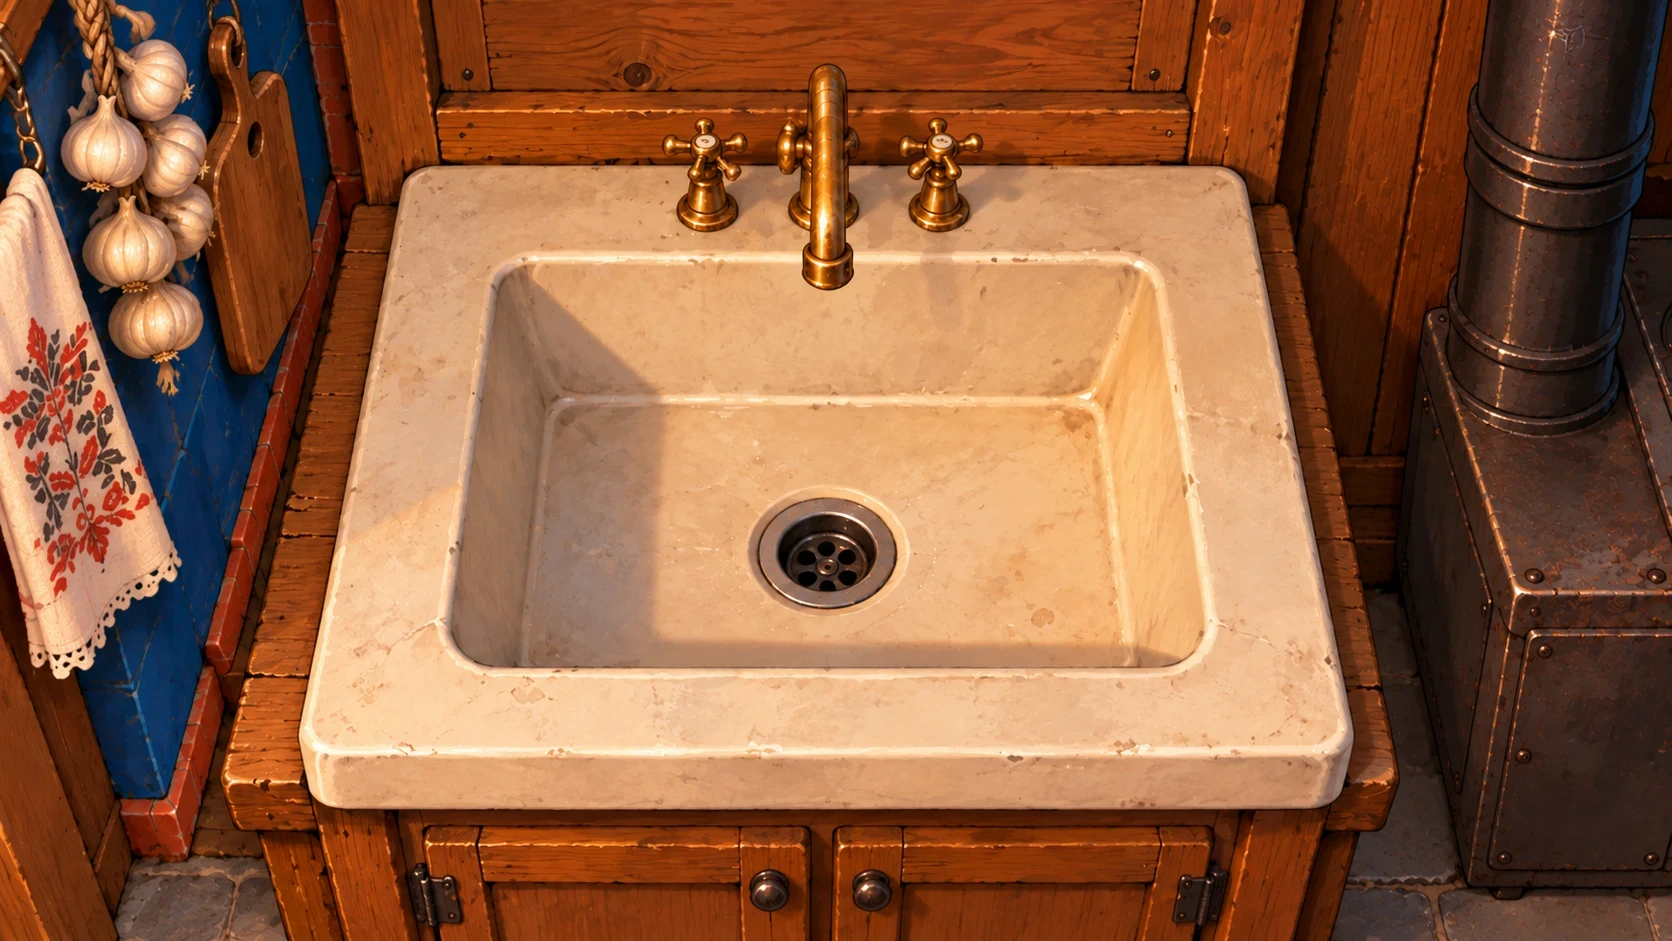
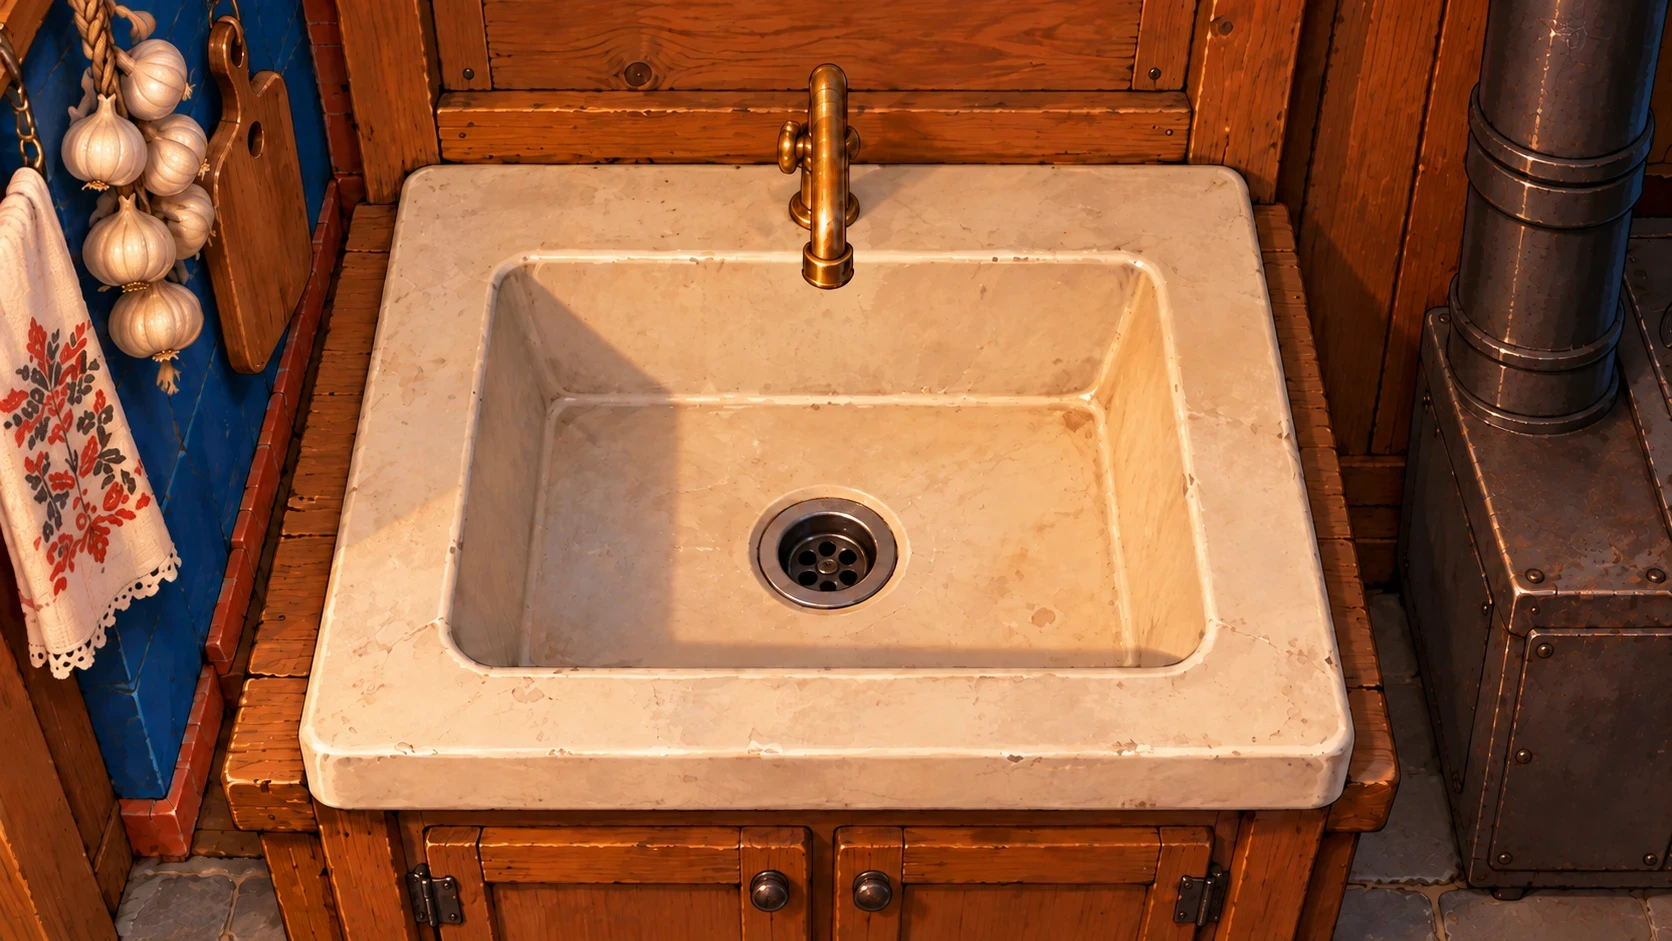
Slika sudopere bez ventila; ventili se crtaju kao posebni delovi
Claude-Session: https://claude.ai/code/session_01GMM3Rnq6i1o8tZEuJzXhvg

diff --git a/js/sink-zoom.js b/js/sink-zoom.js
@@ -4,7 +4,7 @@
 (function(){
 'use strict';
 if(window.CooksterSinkZoom)return;
-var SRC='assets/sink/sudopera_krupno.webp?v=1',DUR=900;
+var SRC='assets/sink/sudopera_krupno.webp?v=2',DUR=900;
 var css=document.createElement('style');
 css.textContent=
 '#sinkZoom{position:fixed;inset:0;z-index:20000;display:none;background:rgba(10,6,3,0);transition:background .5s ease;touch-action:none}'+
@@ -236,7 +236,7 @@ function frame(now){
   if(moving||streamLen>.02||flow>.02||drops.length)requestAnimationFrame(frame);else fxRun=false;
 }
 // the head of a valve: a piece of the picture (a disc around its centre) turned like the cross of a real valve, seen from above at an angle
-var SPR={};
+var SPR={},NO_COVER=true;
 ['glava_levo','glava_desno','postolje_levo','postolje_desno'].forEach(function(n){var i=new Image();i.onload=function(){kickFx();};i.src='assets/sink/ventil_'+n+'.webp?v=1';SPR[n]=i;});
 var patchCache={};
 // a piece of the picture with soft edges (all in pixels of the picture): used to wipe the old valve out of the picture (the wall and the rim of the sink beside it are copied over it)
@@ -258,7 +258,7 @@ function drawHead(g,k,v,w,h){
   // 1. wipe the old valve out of the picture: the strip of the wall and the sink beside it is laid over it
   var cw=Math.max(R*1.25,bw*.62)*2,top=cy-hh*.75,bot=bellB+h*.012,ch=bot-top;
   var src=softPatch((cx+side*cw*1.25-cw/2)*sc,top*sc,cw*sc,ch*sc,Math.round(cw*sc*.12));
-  g.drawImage(src,cx-cw/2,top,cw,ch);
+  if(!NO_COVER)g.drawImage(src,cx-cw/2,top,cw,ch);   // (the new picture of the sink has no valves: nothing to wipe)
   // 2. the base (the bell) and, on it, the head; the head turns and rises a little while it is unscrewed
   g.drawImage(bs,cx-bw/2,bellB-bh,bw,bh);
   var spinning=Math.abs(v.target-v.open)>.01,n=spinning?4:1,lift=Math.sin(Math.min(1,v.open)*Math.PI*.5)*h*.014,dir=Math.sign(v.target-v.open||1)*(side<0?1:-1);

diff --git a/NOTES.md b/NOTES.md
@@ -415,3 +415,4 @@ Kad serving.js nacrta sliku posude, sakriva staru masku prednjeg zida (ona je U-
 - Slavina u krupnom planu sudopere (2026-10-13, `sink-zoom.js?v=8`): dva ventila (leva i desna glava u obliku krsta) se odvrću klikom (glava se okreće uz malo zamućenja pokreta, prava slika glave se zameni delom slike sa strane) i teče voda iz vrha slavine (traka, odsjaj, talasi i kapljice gde pada); levi + desni ventil zajedno = jači mlaz; povezano sa vodom u kuhinji (`setFaucet`). Kalibracija: u režimu „Slavina“ prevlačiš tačke: vrh slavine (plavo), mesto gde voda pada (žuto), levi i desni ventil (zeleno), uz klizače veličine i nagiba ventila. Miloševa kalibracija otvora, dna, maske i svih 14 posuda (veličina i visina) je ugrađena kao početna (`CAL_DEF`). Animacija glave je 2D približavanje (ne pravi 3D), pa bolju daje serija slika glave sa leve strane.
 - Ventili slavine iz Miloševe slike (2026-10-13, `sink-zoom.js?v=9`): glave (crvena i plava) i postolja su posebne slike sa providnom pozadinom (`assets/sink/ventil_glava_levo|desno.webp`, `ventil_postolje_levo|desno.webp`); stari ventili se brišu iz slike tako što se preko njih stavi traka zida i ivice sudopere sa strane (mekih ivica), pa se crtaju nova postolja i glave, glava se okreće oko sredine (spljoštena elipsa za pogled odozgo, uz zamućenje pokreta) i podigne malo dok se odvrće. U alatu (režim „Slavina“): vrh slavine, gde voda pada, levi i desni ventil, veličina ventila, nagib (spljoštenost) ventila — vidi se u svakom trenutku, probni ugao glave (da se vidi efekat nagiba i kad nije u pokretu), visina postolja i dugme „Probaj“. Provereno: nova glava i postolje se vide, stari su obrisani, okretanje i voda rade. Nije provereno: zvuk, ostale posude u sudoperi.
 - Popravka (2026-10-13, `sink-zoom.js?v=11`): ventili su se nacrtani na pogrešnom mestu (stari ostajali vidljivi) kod svakog ko je već imao sačuvanu kalibraciju slavine, jer se ugrađena verzija (`tap.v`) proveravala posle spajanja sa podrazumevanim pa se nikad nije prepoznala kao stara. Sada se stara kalibracija slavine zamenjuje novom jednom (zatim se čuva tvoja).
+- Nova slika sudopere bez ventila (2026-10-13, `sink-zoom.js?v=12`): `assets/sink/sudopera_krupno.webp` je zamenjena Miloševom slikom bez ventila (ostala je samo slavina u sredini); nove glave i postolja se crtaju na njoj, pa više nema brisanja starih (`NO_COVER`).
